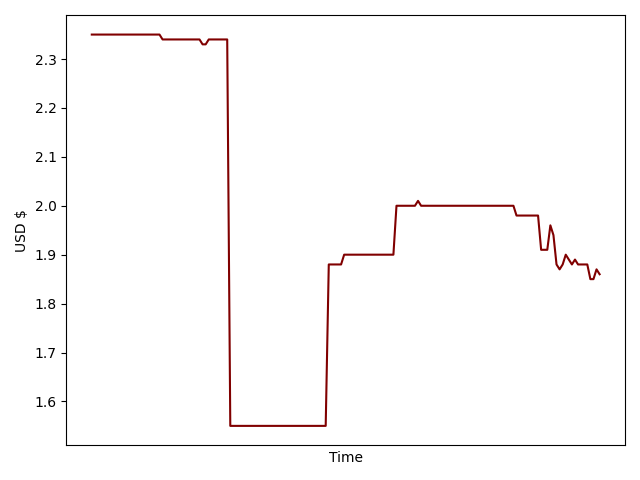
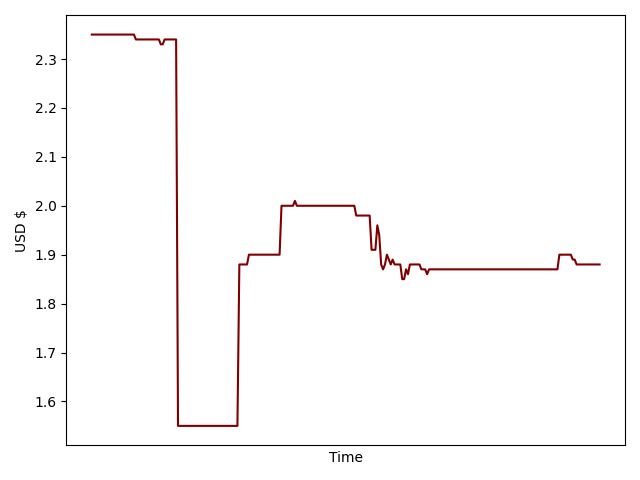
forgot to update coin prices sml

diff --git a/app.py b/app.py
@@ -21,6 +21,7 @@ def main():
         os.remove("static/graph/Portfolio.png") # refresh graph
         pf.plotpf() # update graph
         for coin in all_coin_wallets:
+            cb.current_price(coin)
             pf.plotpfCoin(coin)
             pf.plotCoin(coin)
     bal = str.splitlines(cb.balance())
@@ -50,10 +51,10 @@ def receive():
     if request.method == "POST":
         coin = request.form['data']
         print(cb.balance())
-        cb.current_price(coin)
         os.remove(f"static/graph/{coin}.png")
         pf.plotpf() # update graph
         for coinz in all_coin_wallets:
+            cb.current_price(coinz)
             pf.plotpfCoin(coinz)
             pf.plotCoin(coinz)
     return "reading get request⏳"
